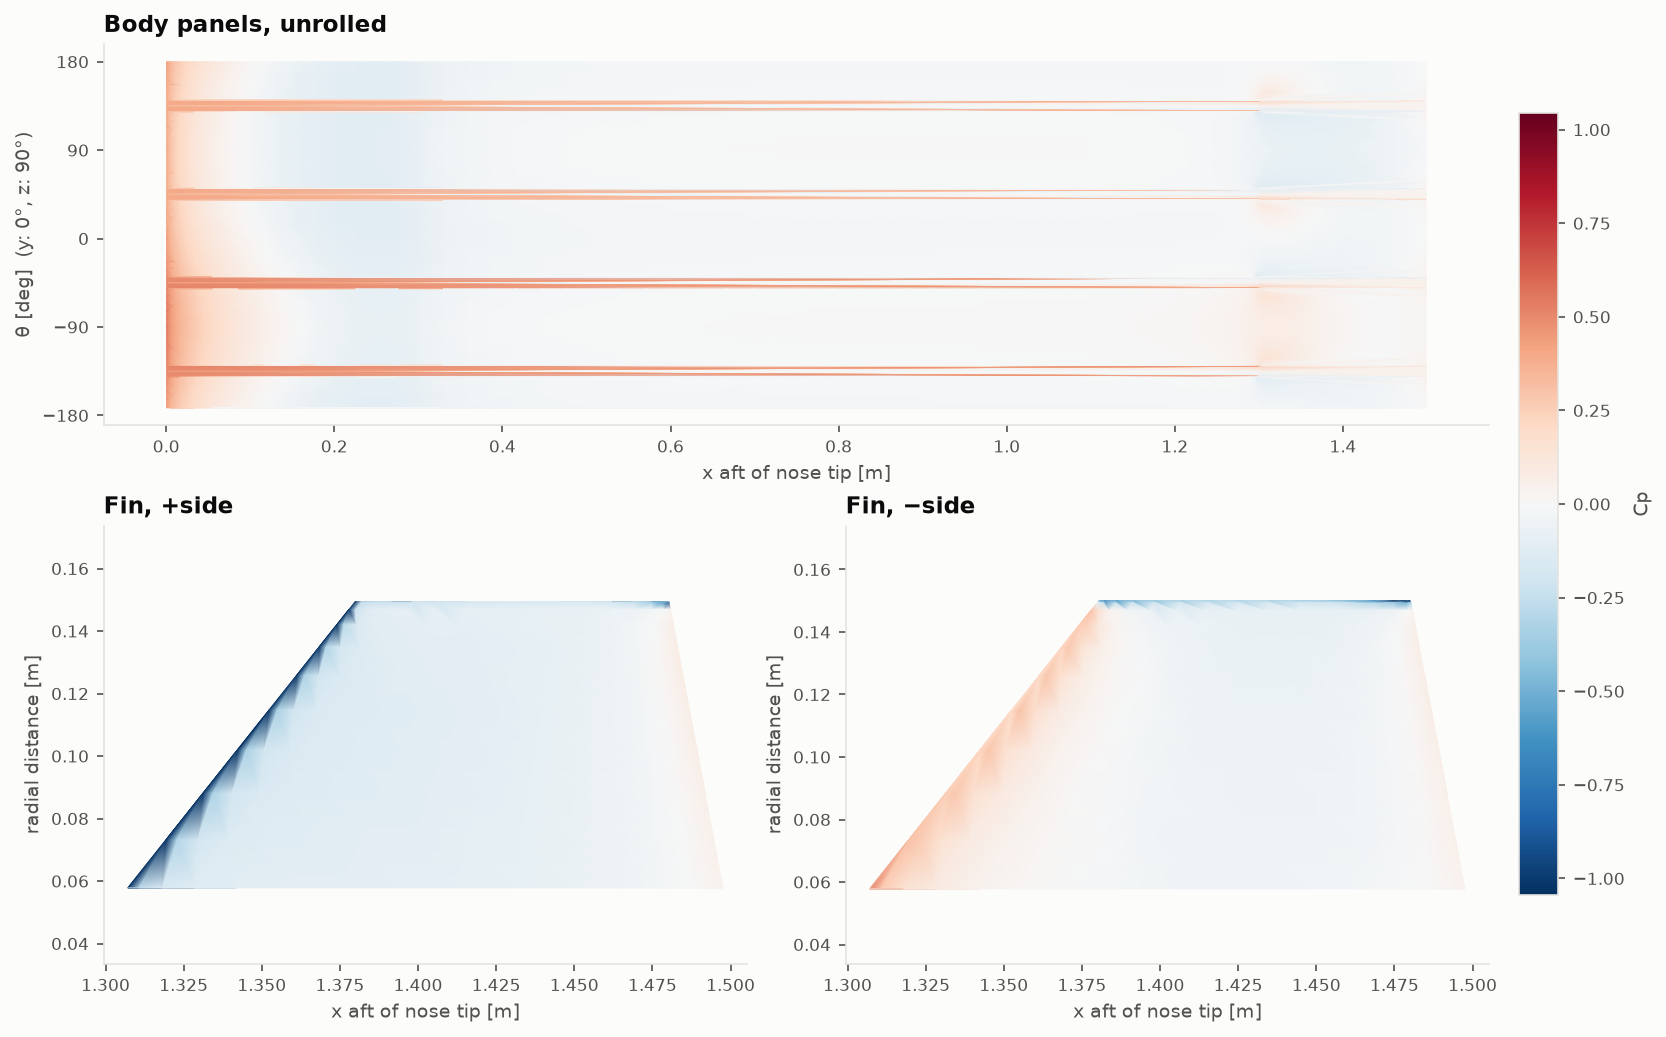
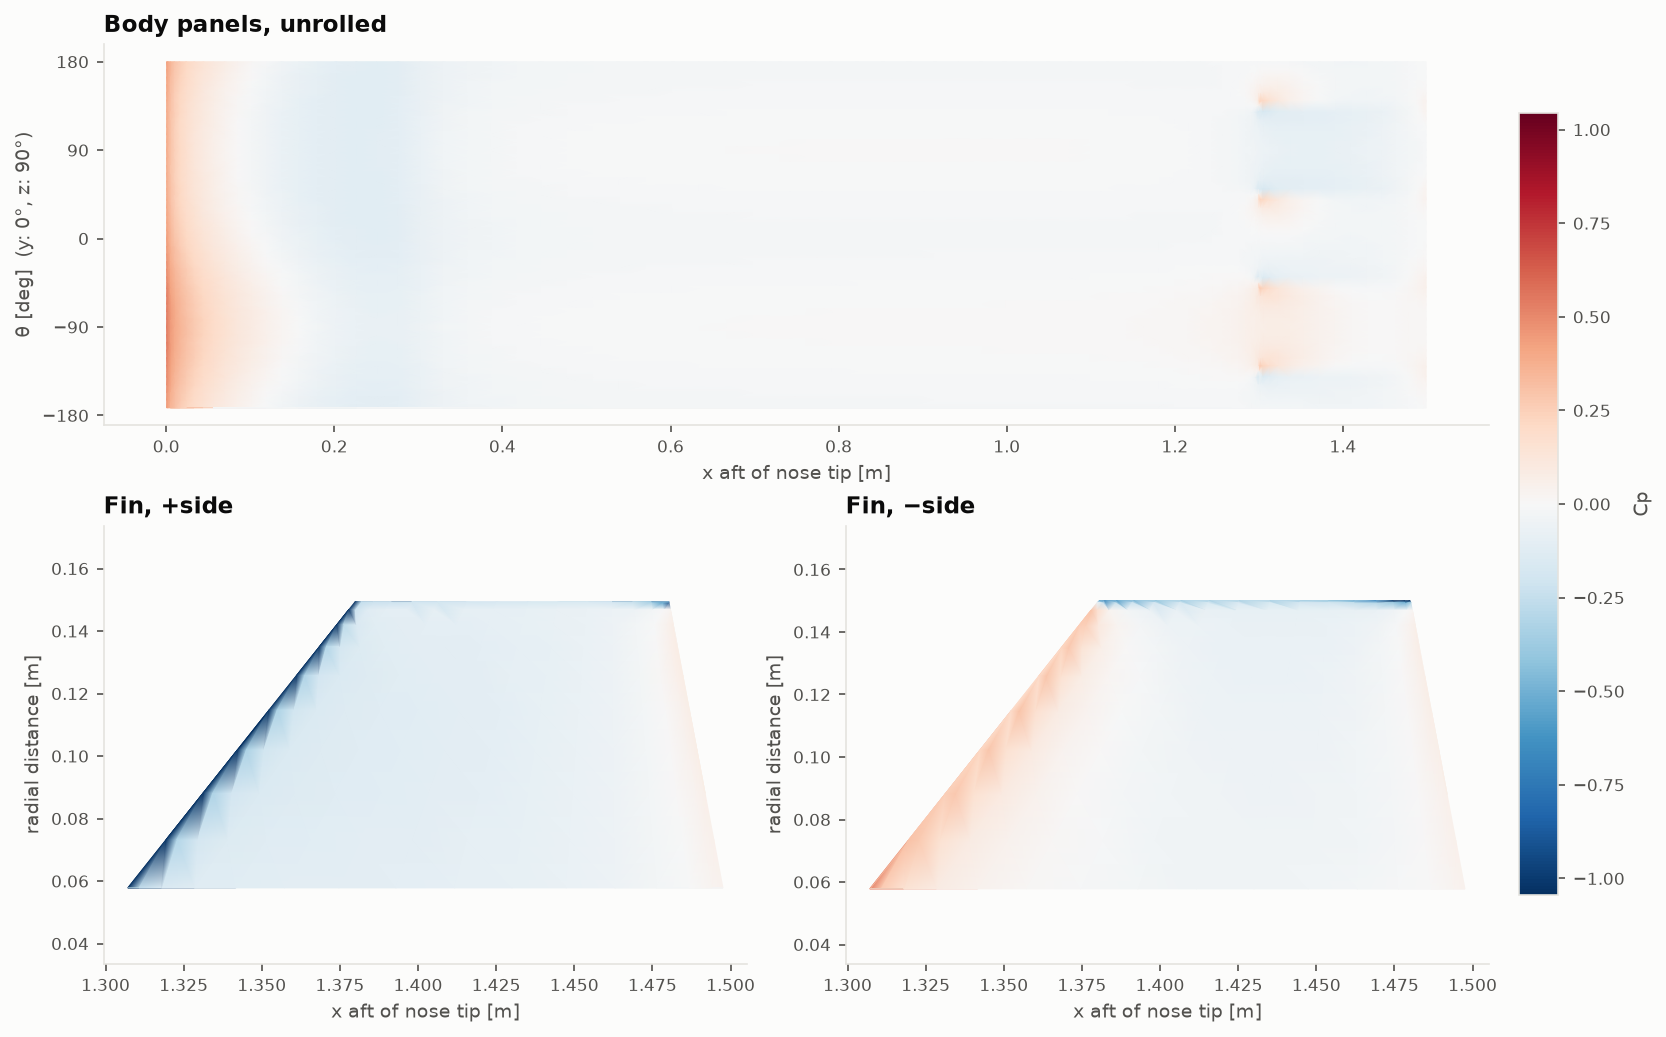
fix: triangulate the unrolled body Cp map on near-square panels so narrow columns at the fin roots no longer smear the nose pressure down the body

diff --git a/python/plot.py b/python/plot.py
@@ -212,11 +212,17 @@ def plot_aero(out):
     save(fig, out, "aero.png")
 
 
-def _tri(ax, x, y, c, norm, cmap, max_dy):
-    """Smooth-shaded triangulated Cp map; triangles spanning gaps (fin footprints, seams) are masked."""
+def _tri(ax, x, y, c, norm, cmap, max_dy, y_scale=1.0):
+    """Smooth-shaded triangulated Cp map; triangles spanning gaps (fin footprints, seams) are masked.
+
+    The Delaunay triangulation is built on (x, y_scale * y) so that the panels are close to square in
+    the triangulation (for the unrolled body: y in degrees, y_scale = body radius in m per degree);
+    otherwise long slivers along the narrow panel columns smear values along the body.
+    """
     import matplotlib.tri as mtri
 
-    tri = mtri.Triangulation(x, y)
+    x, y = np.asarray(x), np.asarray(y)
+    tri = mtri.Triangulation(x, y, mtri.Triangulation(x, y * y_scale).triangles)
     yy = np.asarray(y)[tri.triangles]
     tri.set_mask(np.ptp(yy, axis=1) > max_dy)
     return ax.tripcolor(tri, np.asarray(c), cmap=cmap, norm=norm, shading="gouraud")
@@ -249,7 +255,8 @@ def plot_panel(out):
 
     ax = fig.add_subplot(gs[0, :])
     th = np.degrees(np.arctan2(body.z, body.y))
-    sc = _tri(ax, body.x.values, th.values, body.cp.values, norm, cmap, 25.0)
+    r_body = float(np.median(np.hypot(body.y, body.z)))
+    sc = _tri(ax, body.x.values, th.values, body.cp.values, norm, cmap, 25.0, y_scale=np.radians(1.0) * r_body)
     ax.set_xlabel("x aft of nose tip [m]")
     ax.set_ylabel("θ [deg]  (y: 0°, z: 90°)")
     ax.set_yticks([-180, -90, 0, 90, 180])

diff --git a/doc/scripts/make_plots.py b/doc/scripts/make_plots.py
@@ -580,8 +580,10 @@ def panel_method(f, out, pn):
     lim = max(float(np.percentile(np.abs(d.cp), 99)), 0.1)
     norm = TwoSlopeNorm(vmin=-lim, vcenter=0.0, vmax=lim)
 
-    def tri(ax, x, y, c, max_dy):
-        t = mtri.Triangulation(x, y)
+    def tri(ax, x, y, c, max_dy, y_scale=1.0):
+        # Delaunay on (x, y_scale*y) so the panels are near-square (no slivers along narrow columns).
+        x, y = np.asarray(x), np.asarray(y)
+        t = mtri.Triangulation(x, y, mtri.Triangulation(x, y * y_scale).triangles)
         t.set_mask(np.ptp(np.asarray(y)[t.triangles], axis=1) > max_dy)
         return ax.tripcolor(t, np.asarray(c), cmap="RdBu_r", norm=norm, shading="gouraud", rasterized=True)
 
@@ -590,7 +592,8 @@ def panel_method(f, out, pn):
     gs = fig.add_gridspec(2, 2, height_ratios=[1, 1.15])
     ax = fig.add_subplot(gs[0, :])
     th = np.degrees(np.arctan2(body.z, body.y))
-    sc = tri(ax, body.x.values, th.values, body.cp.values, 25.0)
+    r_body = float(np.median(np.hypot(body.y, body.z)))
+    sc = tri(ax, body.x.values, th.values, body.cp.values, 25.0, y_scale=np.radians(1.0) * r_body)
     ax.set_xlabel("先端からの距離 $x$ [m]")
     ax.set_ylabel("周方向角 $\\theta$ [deg]")
     ax.set_yticks([-180, -90, 0, 90, 180])
